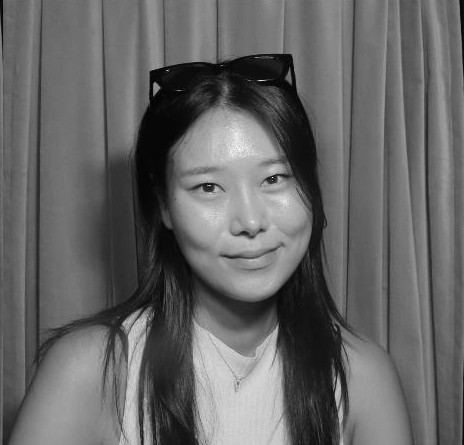
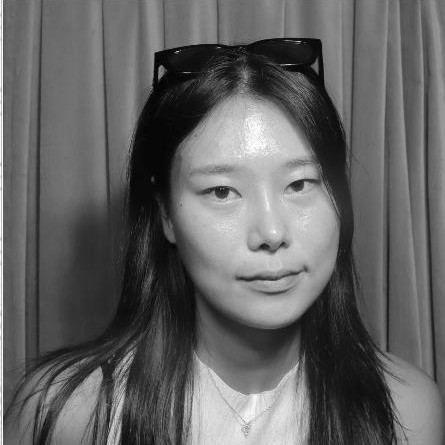
Use warmer photo crop, change role to Founder, auto-update years
Switch avatar/portrait to the smiling pose with more breathing room
around the face (previous crop was too tight). Change the headline
role and footer label from "designer" to "founder". Add a Year
client component so the wordmark's '26 and footer's copyright year
compute from the visitor's clock instead of being hardcoded, so they
stay correct without needing a redeploy each year.

diff --git a/src/content.ts b/src/content.ts
@@ -10,8 +10,8 @@ export type MicroLabel = {
 
 export const CONTENT = {
   meta: {
-    title: "Yunna — Designer",
-    description: "Portfolio of Yunna, brand and product designer.",
+    title: "Yunna — Founder",
+    description: "Portfolio of Yunna, brand and product founder.",
   },
   hero: {
     line1: "HI, WELCOME",
@@ -19,7 +19,7 @@ export const CONTENT = {
     line2: "IT'S ME — YUNNA®",
     disciplineOne: "BRAND,",
     disciplineTwo: "PRODUCT,",
-    role: "DESIGNER",
+    role: "FOUNDER",
   },
   avatar: {
     src: "/avatar.jpg",
@@ -37,18 +37,18 @@ export const CONTENT = {
     } satisfies MicroLabel,
     aside: {
       line1: "IN THE END, I'M",
-      line2: "JUST A DESIGNER",
+      line2: "JUST A FOUNDER",
     } satisfies MicroLabel,
   },
   portrait: {
     src: "/placeholder.jpg",
     alt: "Black and white photobooth portrait of Yunna, cropped tall",
   },
-  wordmark: "YUNNA®—'26",
+  wordmarkPrefix: "YUNNA®—'",
   footer: {
     name: "Yunna",
     age: "24",
-    copyright: "@Copyright 2026",
+    copyrightPrefix: "@Copyright ",
     linksColumnOne: [
       { label: "Instagram", href: "https://instagram.com/" },
       { label: "Dribbble", href: "https://dribbble.com/" },

diff --git a/src/components/Footer.tsx b/src/components/Footer.tsx
@@ -1,7 +1,9 @@
 import { CONTENT } from "@/content";
+import { Year } from "@/components/Year";
 
 export function Footer() {
   const { footer } = CONTENT;
+  const initialYear = new Date().getFullYear();
 
   return (
     <footer className="fixed inset-x-0 bottom-0 z-10 px-6 pb-6 sm:px-8">
@@ -10,7 +12,10 @@ export function Footer() {
           <p>
             {footer.name} — {footer.age}
           </p>
-          <p>{footer.copyright}</p>
+          <p>
+            {footer.copyrightPrefix}
+            <Year initialYear={initialYear} />
+          </p>
         </div>
 
         <nav aria-label="Social links, column one" className="micro-label text-ink">

diff --git a/src/components/Wordmark.tsx b/src/components/Wordmark.tsx
@@ -1,13 +1,17 @@
 import { CONTENT } from "@/content";
+import { Year } from "@/components/Year";
 
 export function Wordmark() {
+  const initialYear = new Date().getFullYear();
+
   return (
     <div className="relative flex justify-end px-6 pb-28 pt-16 sm:px-8 md:pb-32 md:pl-[44vw]">
       <p
         className="display-line text-right text-ink"
         style={{ fontSize: "clamp(48px, min(8vw, 15svh), 150px)" }}
       >
-        {CONTENT.wordmark}
+        {CONTENT.wordmarkPrefix}
+        <Year initialYear={initialYear} format="short" />
       </p>
     </div>
   );

diff --git a/src/components/Year.tsx b/src/components/Year.tsx
@@ -1,0 +1,18 @@
+"use client";
+
+export function Year({
+  initialYear,
+  format = "full",
+}: {
+  initialYear: number;
+  format?: "full" | "short";
+}) {
+  const year =
+    typeof window !== "undefined" ? new Date().getFullYear() : initialYear;
+
+  return (
+    <span suppressHydrationWarning>
+      {format === "short" ? String(year).slice(-2) : year}
+    </span>
+  );
+}
